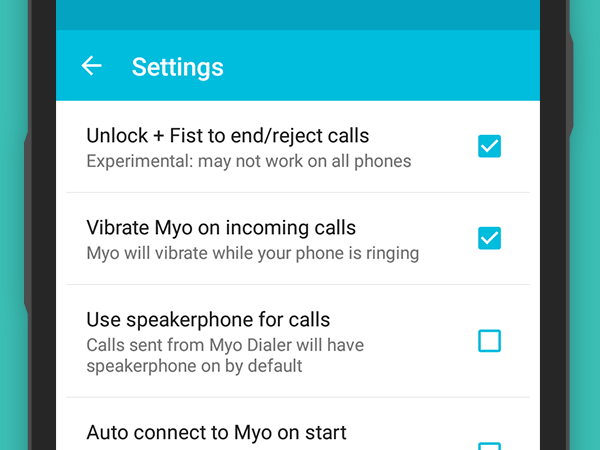
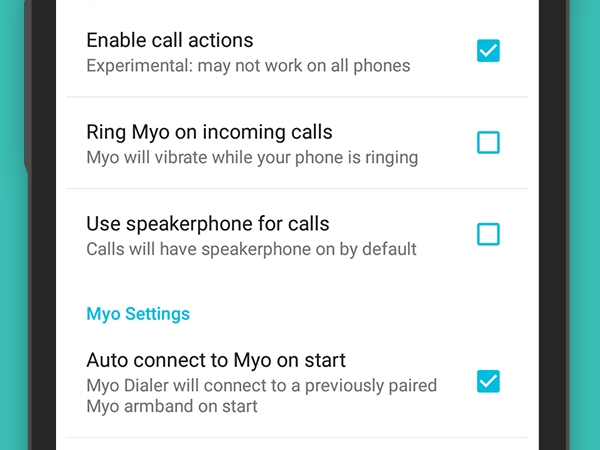
Update Myo Dialer page

diff --git a/myodialer.md b/myodialer.md
@@ -57,7 +57,7 @@ sequence: -10
 <div class="row paddown paddup">
     <div class="col-sm-8 hidden-xs">
         <div class="featuretext-md">
-            <p>Customize your experience — <span class="cyan-emph">Myo Dialer</span> lets you reject calls with your fist*, start all calls sent from the app on speakerphone, and get notified on incoming calls by vibrating your Myo armband.</p>
+            <p>Control your phone calls with the Myo armband — <span class="cyan-emph">Myo Dialer</span> lets you reject calls with your fist and toggle speakerphone and microphone with a wave of your hand.*</p>
         </div>
 
         <div class="featuretext-sm">
@@ -66,12 +66,12 @@ sequence: -10
     </div>
 
     <div class="col-sm-4 col-center">
-        <img src="/images/projects/myodialer/myodialer-settings.png" width="300px" title="Personalize your experience with Myo Dialer." alt="Personalize your experience with Myo Dialer."/>
+        <img src="/images/projects/myodialer/myodialer-controls.png" width="300px" title="Control your phone calls with Myo Dialer." alt="Personalize your experience with Myo Dialer."/>
     </div>
 
     <div class="col-sm-8 visible-xs">
         <div class="featuretext-md">
-            <p>Customize your experience — <span class="cyan-emph">Myo Dialer</span> lets you reject calls with your fist*, start all calls sent from the app on speakerphone, and get notified on incoming calls by vibrating your Myo armband.</p>
+            <p>Control your phone calls with the Myo armband — <span class="cyan-emph">Myo Dialer</span> lets you reject calls with your fist and toggle speakerphone and microphone with a wave of your hand.*</p>
         </div>
 
         <div class="featuretext-sm">
@@ -80,8 +80,20 @@ sequence: -10
     </div>
 </div>
 
+<div class="row paddup paddown">
+    <div class="col-sm-4 col-center">
+        <img src="/images/projects/myodialer/myodialer-settings.png" width="300px" title="Personalize your experience with Myo Dialer." alt="Assign up to four contacts to gestures in Myo Dialer."/>
+    </div>
+
+    <div class="col-sm-8">
+        <div class="featuretext-md">
+            <p>Customize your experience — with <span class="cyan-emph">Myo Dialer</span>, you can start all calls on speakerphone and get your Myo to ring on incoming calls.</p>
+        </div> 
+    </div>
+</div>
+
 <div class="col-center paddup paddown">
-    <p class= "featuretext-lg">Get <span class="cyan-emph">Myo Dialer</span> on your Android phone today!</p>
+    <p class= "featuretext-lg">Get <span class="cyan-emph">Myo Dialer</span> on Android today!</p>
     <p class="featuretext-sm">Requires Android 4.3 or greater, BLE support and Myo armband with 1.1.4 firmware or greater.</p>
     <span class="paddown">
         <a href="https://play.google.com/store/apps/details?id=com.lloydtorres.myodialer"><img src="/images/icons/ps_badge.png" class="market-badges-large"/></a>
